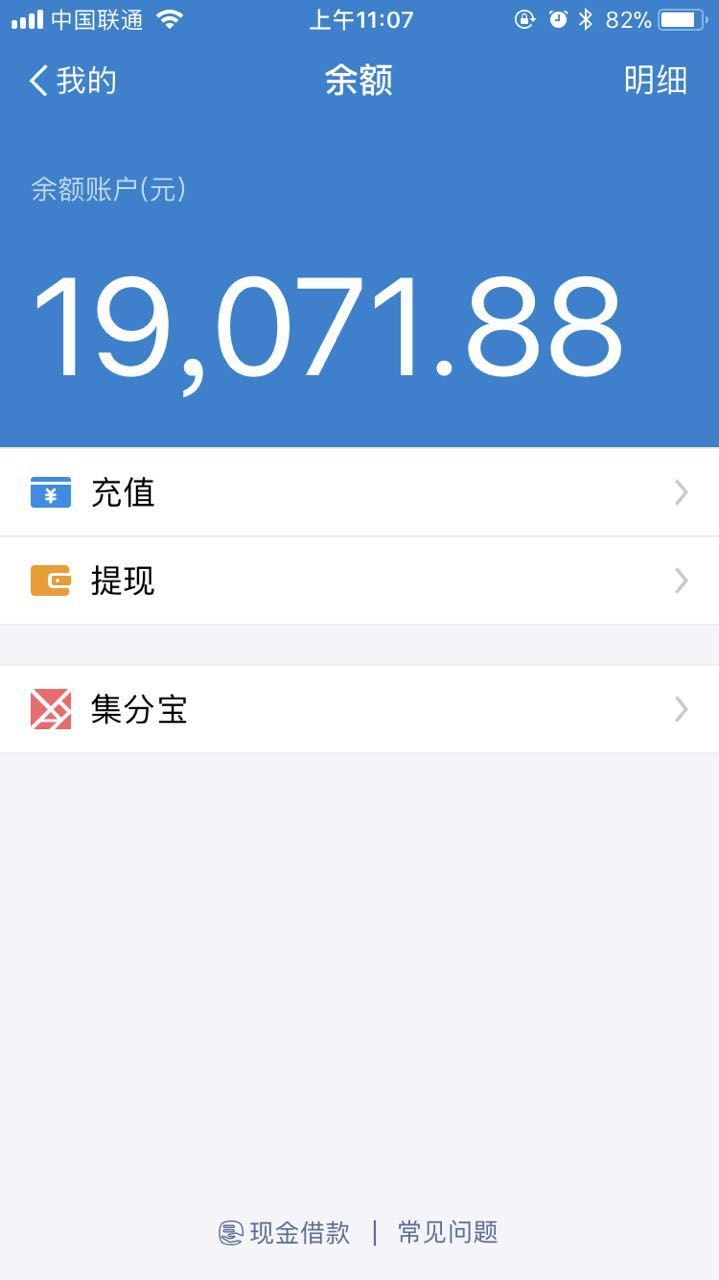
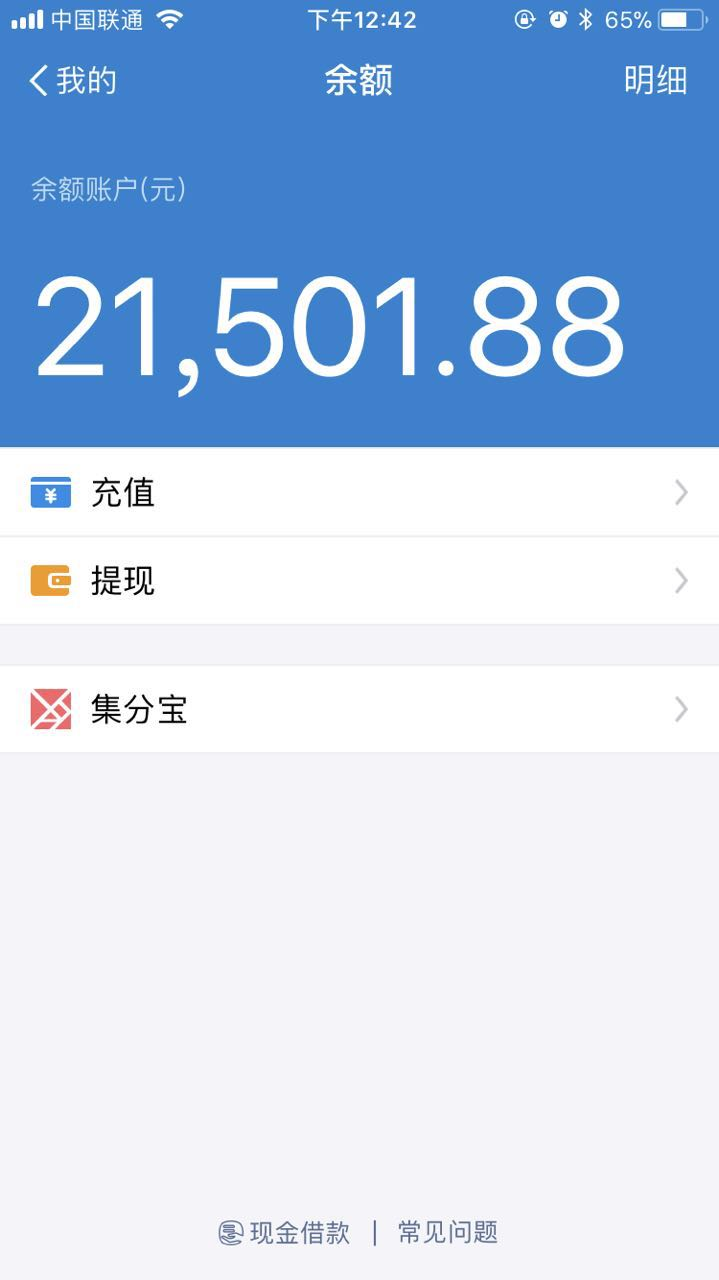
income: 杭NodeParty 2430元 20170815 组织赞助 8月份NodeParty门票收入

diff --git a/README.md b/README.md
@@ -1,6 +1,6 @@
 #  NodeParty 开源基金会运作草案 
 
-![](https://img.shields.io/badge/余额-19071.88%20元-green.svg) ![](https://img.shields.io/badge/赞助笔数-29%20笔-green.svg) ![](https://img.shields.io/badge/待入账-2430.00%20元-blue.svg) 
+![](https://img.shields.io/badge/余额-21501.88%20元-green.svg) ![](https://img.shields.io/badge/赞助笔数-30%20笔-green.svg) ![](https://img.shields.io/badge/待入账-2430.00%20元-blue.svg) 
 
 ## 组织介绍
 
@@ -127,6 +127,7 @@ Commit Message 需按照此格式：
 | @wangerniu | 200.00 | 2017-08-15 | 个人赞助 | [#34](https://github.com/Hangzhou-Node-Party/JS-OpenSource-Foundation/issues/34) |
 | @Sirormy | 255.00 | 2017-08-15 | 个人赞助 | [#35](https://github.com/Hangzhou-Node-Party/JS-OpenSource-Foundation/issues/35) |
 | @DevinXian | 200.00 | 2017-08-15 | 个人赞助 | [#36](https://github.com/Hangzhou-Node-Party/JS-OpenSource-Foundation/issues/36) |
+| @杭NodeParty讲师团 | 2430.00 | 2017-08-15 | 组织赞助 | [#37](https://github.com/Hangzhou-Node-Party/JS-OpenSource-Foundation/issues/37) |
 
 感谢以下企业的赞助：
 
@@ -147,12 +148,14 @@ Commit Message 需按照此格式：
 ![](https://img.shields.io/badge/兔耳日记-500元-green.svg)
 ![](https://img.shields.io/badge/内推小王子-666元-green.svg)
 ![](https://img.shields.io/badge/mindb-500元-green.svg)
+![](https://img.shields.io/badge/杭NodeParty讲师团-2430元-green.svg)
 
 [<img src="./img/mindb_logo.png" width=150/>](https://github.com/iwillwen/mindb)
 [<img src="./img/tuer_logo.png" width=150/>](http://www.tuer.me)
 [<img src="./img/san_logo.png" width=150/>](https://ecomfe.github.io/san/)
 [<img src="./img/echarts_logo.png" width=150/>](https://github.com/ecomfe/echarts)
 <img src="./img/neitui_logo.png" width=150/>
+[<img src="https://github.com/Hangzhou-Node-Party/slides/raw/master/logo.png" height=68/>](https://github.com/Hangzhou-Node-Party/slides)
 
 > 活动收入挂在讲师名下记录，其他赞助个人和企业名义记录。
 
@@ -169,8 +172,8 @@ Commit Message 需按照此格式：
 <!-- money start -->
 | 款项 | 金额 |
 |------|------|
-| **总额** | 19071.88 元 |
-| **本月收入** | 19071.88 元 |
+| **总额** | 21501.88 元 |
+| **本月收入** | 21501.88 元 |
 | **待入账** | 2430.00 元 |
 | **本月支出** | 0 元 |
 <!-- money end -->

diff --git a/INCOMING.md b/INCOMING.md
@@ -31,3 +31,4 @@
 | @wangerniu | 200.00 | 2017-08-15 | 个人赞助 | 祝nodeParty越办越好. |
 | @Sirormy | 255.00 | 2017-08-15 | 个人赞助 | 祝 JS开源基金会越办越好 |
 | @DevinXian | 200.00 | 2017-08-15 | 个人赞助 | 支持杭州 Node-Party，希望能越办越好，给大家带来更多的交流学习机会。 |
+| @杭NodeParty讲师团 | 2430.00 | 2017-08-15 | 组织赞助 | [#37](https://github.com/Hangzhou-Node-Party/JS-OpenSource-Foundation/issues/37) |
